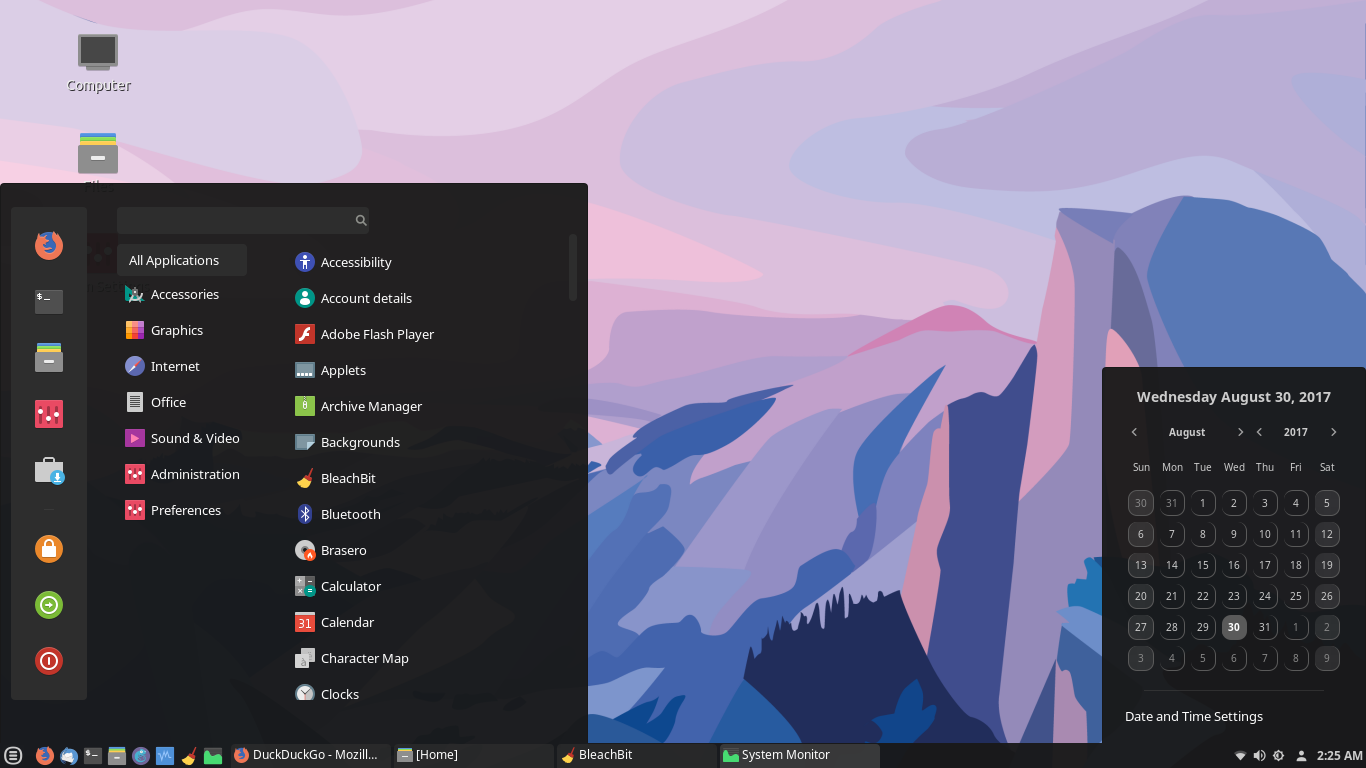
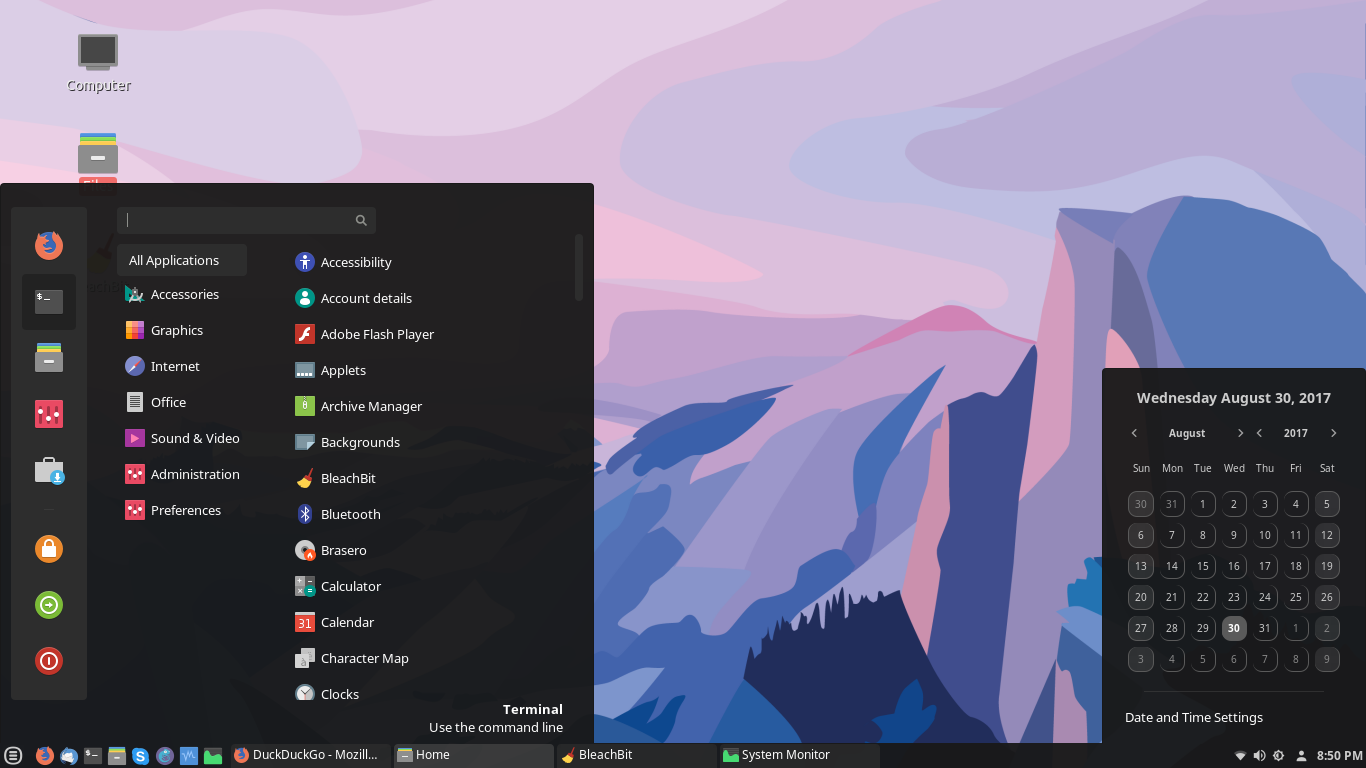
qob : Fix menu-search-entry padding & Update screenshot.png (#237)
* Fix menu-search-entry padding

* Update screenshot.png

diff --git a/qob/files/qob/cinnamon/cinnamon.css b/qob/files/qob/cinnamon/cinnamon.css
@@ -1650,10 +1650,11 @@ StScrollBar StButton#vhandle:hover
     width: 250px;
     height: 25px;
     font-weight: normal;
+    padding-left: 7px;
     background-color: rgba(45,45,45,1);
     border: 1px solid rgba(45,45,45,1);
     border-radius: 4px;
-    caret-color: white;
+    caret-color: #8d8f8a;
     caret-size: 1px;
     selection-background-color: rgba(80,80,80,1);
     selected-color: white;
@@ -1662,6 +1663,8 @@ StScrollBar StButton#vhandle:hover
 .menu-search-entry-icon {
     icon-size: 1em;
     color: #8d8f8a;
+    padding-right: 7px;
+    padding-left: 7px;
 }
 
 /* Context menu (at the moment only for favorites) */
